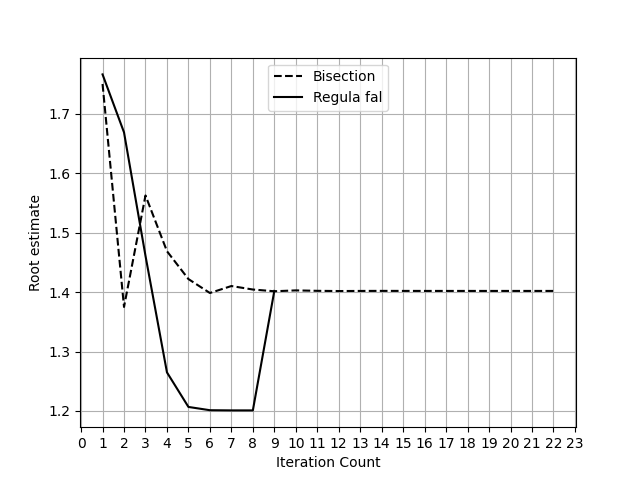
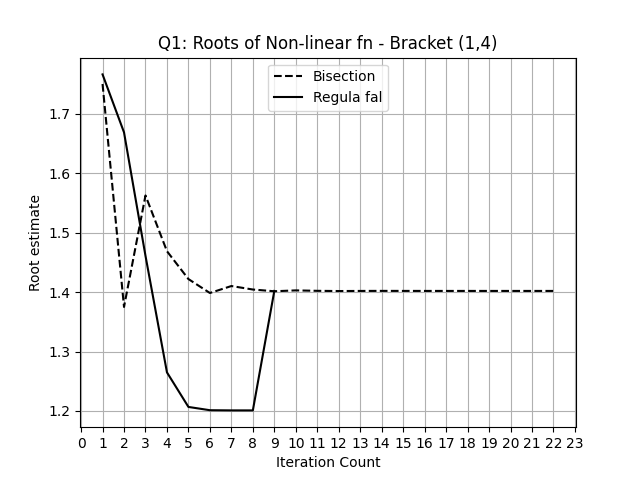
Add files via upload

Changed region(s): [[0.25, 0.0625, 0.7812, 0.125]]

diff --git a/Assgn4/Q2.py b/Assgn4/Q2.py
@@ -1,34 +1,158 @@
 import math
+
+from matplotlib import pyplot as plt
+from matplotlib.ticker import MultipleLocator
 from mypylib import root_fit as rf
 
 g = "-x - math.cos(x)"
 h = "-1 + math.sin(x)"
 
-a1,a2 = rf.bisec(g,0.000001, 0.000001)
-a3,a4 = rf.bisec(g,0.000001, 0.000001,-3,-2)
-a5,a6 = rf.bisec(g,0.000001, 0.000001,3,4)
+res1 = rf.bisec(g,0.000001, 0.000001,-1,1,1)
+res2 = rf.regfal(g,0.000001, 0.000001,-1,1,1)
 
-b1,b2 = rf.regfal(g,0.000001, 0.000001)
-b3,b4 = rf.regfal(g,0.000001, 0.000001,-3,-2)
-b5,b6 = rf.regfal(g,0.000001, 0.000001,3,4)
+res3 = rf.bisec(g,0.000001, 0.000001,-3,-2,1)
+res4 = rf.regfal(g,0.000001, 0.000001,-3,-2,1)
 
-c1,c2 = rf.newraph(g,h,0.000001,0.000001)
-c3,c4 = rf.newraph(g,h,0.000001,0.000001,-3)
-c5,c6 = rf.newraph(g,h,0.000001,0.000001,2)
+res5 = rf.bisec(g,0.000001, 0.000001,3,4,1)
+res6 = rf.regfal(g,0.000001, 0.000001,3,4,1)
+
+res7 = rf.newraph(g,h,0.000001,0.000001,0,1)
+res8 = rf.newraph(g,h,0.000001,0.000001,-3,1)
+res9 = rf.newraph(g,h,0.000001,0.000001,2,1)
 
 #file print module
 fout = open(r"C:\Main\Study\Sem 5\P346 Computational Phy Lab\Code\Assgn4\Q2 out.txt", "w")
-fout.writelines("Root(s) of nonlinear function (Tolerance 10^-6)\n\n" +"\nf(x) = -x - cos(x)\n\n"+"Method           Result              No. of iterations\n")
+fout.writelines("Root(s) of nonlinear function (Tolerance 10^-6)\n\n" +"\nf(x) = -x - cos(x)\n\n"+"Method         Result     No. of iterations\n")
 fout.close()
 fout = open(r"C:\Main\Study\Sem 5\P346 Computational Phy Lab\Code\Assgn4\Q2 out.txt", "a")
-fout.writelines("Bisection :     "+str(a1)+"   "+str(a2)+"               Intial Bracket: (-1,1)\n")
-fout.writelines("Bisection :     "+str(a3)+"   "+str(a4)+"               Intial Bracket: (-3,-2)\n")
-fout.writelines("Bisection :     "+str(a5)+"   "+str(a6)+"               Intial Bracket: (3,4)\n\n")
-fout.writelines("Regula falsi:   "+str(b1)+"   "+str(b2)+"               Intial Bracket: (-1,1)\n")
-fout.writelines("Regula falsi:   "+str(b3)+"   "+str(b4)+"               Intial Bracket: (-3,-2)\n")
-fout.writelines("Regula falsi:   "+str(b5)+"   "+str(b6)+"               Intial Bracket: (3,4)\n\n")
-fout.writelines("Newton Raphson: "+str(c1)+"    "+str(c2)+"              Initial guess: 0\n")
-fout.writelines("Newton Raphson: "+str(c3)+"    "+str(c4)+"              Initial guess: -3\n")
-fout.writelines("Newton Raphson: "+str(c5)+"    "+str(c6)+"              Initial guess: 2\n")
-fout.writelines("\nTherefore, Newton Raphson converges to the root the fastest.")
+fout.writelines("\nIntial Bracket: (-1,1)\n\n")
+for i in range(1, len(res1)): fout.writelines("Bisection :     "+str(float(f'{res1[i][0]:.7f}'))+"   "+str(float(f'{res1[i][1]:.6f}'))+"\n")
+fout.writelines("\n")
+for i in range(1, len(res2)): fout.writelines("Regula falsi:   "+str(float(f'{res2[i][0]:.7f}'))+"   "+str(float(f'{res2[i][1]:.6f}'))+"\n")
+fout.writelines("\n\nIntial Bracket: (-3,-2)\n\n")
+for i in range(1, len(res3)): fout.writelines("Bisection :     "+str(float(f'{res3[i][0]:.7f}'))+"   "+str(float(f'{res3[i][1]:.6f}'))+"\n")
+fout.writelines("\n")
+for i in range(1, len(res4)): fout.writelines("Regula falsi:   "+str(float(f'{res4[i][0]:.7f}'))+"   "+str(float(f'{res4[i][1]:.6f}'))+"\n")
+fout.writelines("\n\nIntial Bracket: (3,4)\n\n")
+for i in range(1, len(res5)): fout.writelines("Bisection :     "+str(float(f'{res5[i][0]:.7f}'))+"   "+str(float(f'{res5[i][1]:.6f}'))+"\n")
+fout.writelines("\n")
+for i in range(1, len(res6)): fout.writelines("Regula falsi:   "+str(float(f'{res6[i][0]:.7f}'))+"   "+str(float(f'{res6[i][1]:.6f}'))+"\n")
+fout.writelines("\n\nIntial Guess: 0\n\n")
+for i in range(1, len(res7)): fout.writelines("Newton Raphson :     "+str(float(f'{res7[i][0]:.7f}'))+"   "+str(float(f'{res7[i][1]:.6f}'))+"\n")
+fout.writelines("\n\nIntial Guess: -3\n\n")
+for i in range(1, len(res8)): fout.writelines("Newton Raphson :     "+str(float(f'{res8[i][0]:.7f}'))+"   "+str(float(f'{res8[i][1]:.6f}'))+"\n")
+fout.writelines("\n\nIntial Guess: 2\n\n")
+for i in range(1, len(res9)): fout.writelines("Newton Raphson :     "+str(float(f'{res9[i][0]:.7f}'))+"   "+str(float(f'{res9[i][1]:.6f}'))+"\n")
+
+fout.writelines("\n\nTherefore, Newton Raphson converges to the root the fastest.")
 fout.close()
+
+#plotting the convergence (extra)
+
+x1 = []
+y1 = []
+x2 = []
+y2 = []
+x7 = []
+y7 = []
+x8 = []
+y8 = []
+x9 = []
+y9 = []
+for i in range(1, max(len(res1),len(res2),len(res7),len(res8),len(res9))):
+    if i < len(res2):
+        x2.append(res2[i][1])
+        y2.append(res2[i][0])
+    if i < len(res7):
+        x7.append(res7[i][1])
+        y7.append(res7[i][0])
+    if i < len(res8):
+        x8.append(res8[i][1])
+        y8.append(res8[i][0])
+    if i < len(res9):
+        x9.append(res9[i][1])
+        y9.append(res9[i][0])
+    if i < len(res1):
+        x1.append(res1[i][1])
+        y1.append(res1[i][0])
+
+fig, ax = plt.subplots()
+plt.plot(x1,y1, 'k--',x2,y2,'k', x7,y7, 'k:', x8,y8, 'k*', x9,y9, 'k-')
+ax.xaxis.set_major_locator(MultipleLocator(1))
+ax.xaxis.set_major_formatter('{x:.0f}')
+plt.grid()
+plt.legend(('Bisection  (-1,1)','Regula fal (-1,1)','NewRaph: 0','NewRaph: -3','NewRaph: 2'),loc='lower right')
+plt.xlabel("Iteration Count")
+plt.ylabel("Root estimate")
+plt.title("Q2: Roots of Non-linear fn")
+plt.savefig("Q2 all.png")
+
+fig, ax = plt.subplots()
+plt.plot(x7,y7, 'k:', x8,y8, 'k', x9,y9, 'k--')
+ax.xaxis.set_major_locator(MultipleLocator(1))
+ax.xaxis.set_major_formatter('{x:.0f}')
+plt.grid()
+plt.legend(('NewRaph: 0','NewRaph: -3','NewRaph: 2'),loc='lower right')
+plt.xlabel("Iteration Count")
+plt.ylabel("Root estimate")
+plt.title("Q2: Roots of Non-linear fn - Newton Raphson")
+plt.savefig("Q2 Newraph.png")
+
+fig, ax = plt.subplots()
+plt.plot(x1,y1, 'k--',x2,y2,'k')
+ax.xaxis.set_major_locator(MultipleLocator(1))
+ax.xaxis.set_major_formatter('{x:.0f}')
+plt.grid()
+plt.legend(('Bisection  (-1,1)','Regula fal (-1,1)'),loc='lower right')
+plt.xlabel("Iteration Count")
+plt.ylabel("Root estimate")
+plt.title("Q2: Roots of Non-linear fn - Bracket (-1,1)")
+plt.savefig("Q2 Bracket -1,1.png")
+
+x1 = []
+y1 = []
+x2 = []
+y2 = []
+
+for i in range(1, max(len(res3),len(res4))):
+    if i < len(res4):
+        x2.append(res4[i][1])
+        y2.append(res4[i][0])
+    if i < len(res3):
+        x1.append(res3[i][1])
+        y1.append(res3[i][0])
+
+fig, ax = plt.subplots()
+plt.plot(x1,y1, 'k--',x2,y2,'k')
+ax.xaxis.set_major_locator(MultipleLocator(1))
+ax.xaxis.set_major_formatter('{x:.0f}')
+plt.grid()
+plt.legend(('Bisection  (-3,-2)','Regula fal (-3,-2)'),loc='upper right')
+plt.xlabel("Iteration Count")
+plt.ylabel("Root estimate")
+plt.title("Q2: Roots of Non-linear fn - Bracket (-3,-2)")
+plt.savefig("Q2 Bracket -3,-2.png")
+
+x1 = []
+y1 = []
+x2 = []
+y2 = []
+
+for i in range(1, max(len(res5),len(res6))):
+    if i < len(res6):
+        x2.append(res6[i][1])
+        y2.append(res6[i][0])
+    if i < len(res5):
+        x1.append(res5[i][1])
+        y1.append(res5[i][0])
+
+fig, ax = plt.subplots()
+plt.plot(x1,y1, 'k--',x2,y2,'k')
+ax.xaxis.set_major_locator(MultipleLocator(1))
+ax.xaxis.set_major_formatter('{x:.0f}')
+plt.grid()
+plt.legend(('Bisection  (3,4)','Regula fal (3,4)'),loc='upper right')
+plt.xlabel("Iteration Count")
+plt.ylabel("Root estimate")
+plt.title("Q2: Roots of Non-linear fn - Bracket (3,4)")
+plt.savefig("Q2 Bracket 3,4.png")

diff --git a/Assgn4/Q1.py b/Assgn4/Q1.py
@@ -58,6 +58,7 @@ plt.grid()
 plt.legend(('Bisection','Regula fal'),loc='upper center')
 plt.xlabel("Iteration Count")
 plt.ylabel("Root estimate")
+plt.title("Q1: Roots of Non-linear fn - Bracket (1.5,2.5)")
 plt.savefig("Q1 Bracket 1.5,2.5.png")
 
 x1 = []
@@ -78,6 +79,7 @@ plt.grid()
 plt.legend(('Bisection','Regula fal'),loc='upper center')
 plt.xlabel("Iteration Count")
 plt.ylabel("Root estimate")
+plt.title("Q1: Roots of Non-linear fn - Bracket (1,4)")
 plt.savefig("Q1 Bracket 1,4.png")
 
 x1 = []
@@ -98,4 +100,5 @@ plt.grid()
 plt.legend(('Bisection','Regula fal'),loc='upper center')
 plt.xlabel("Iteration Count")
 plt.ylabel("Root estimate")
+plt.title("Q1: Roots of Non-linear fn - Bracket (3,4)")
 plt.savefig("Q1 Bracket 3,4.png")
